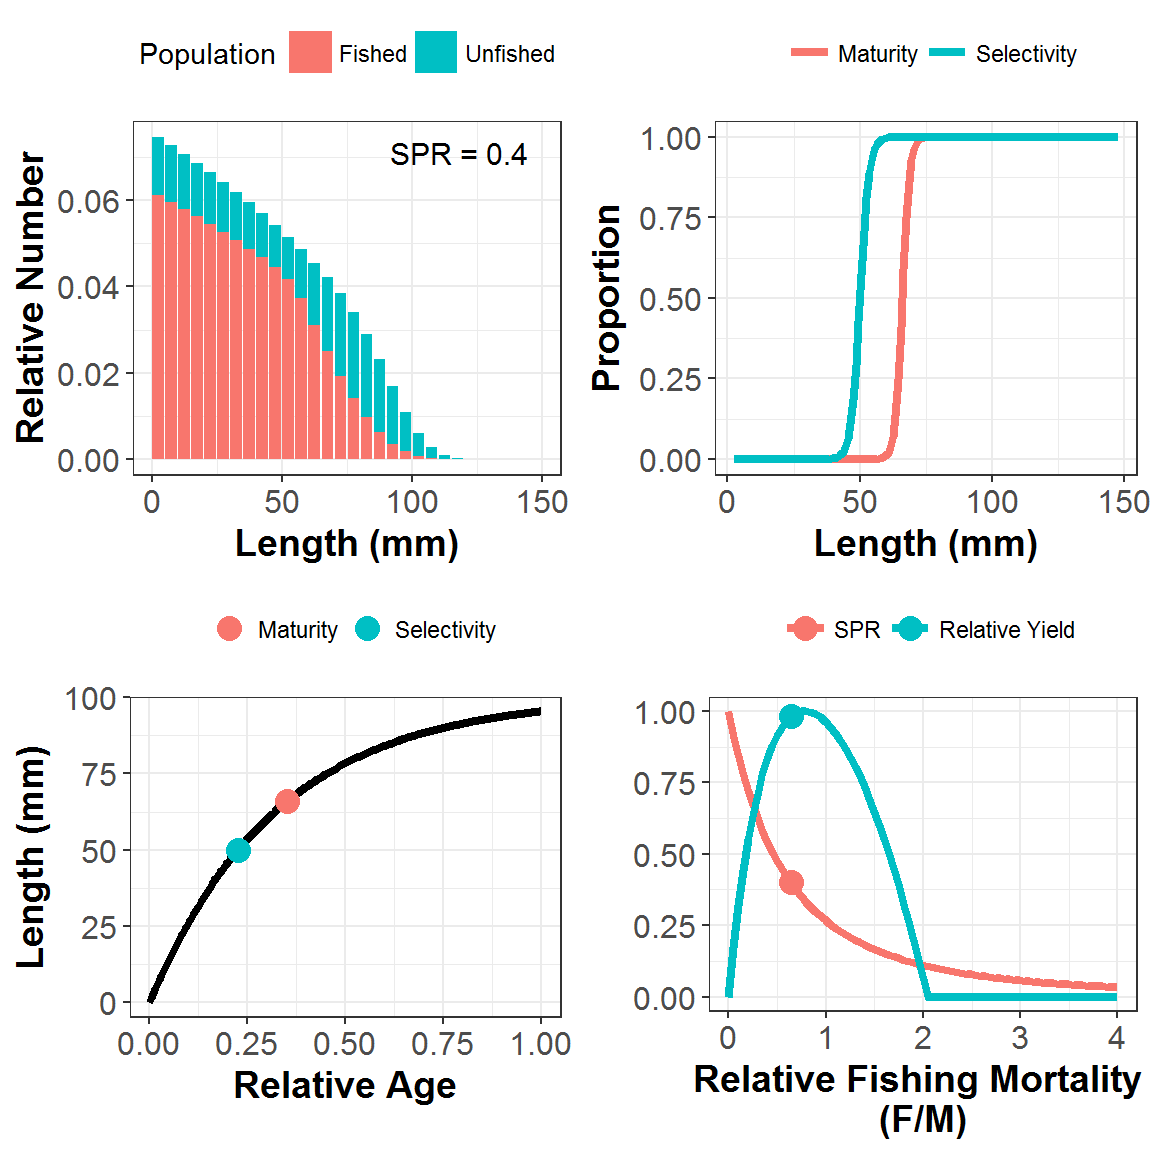
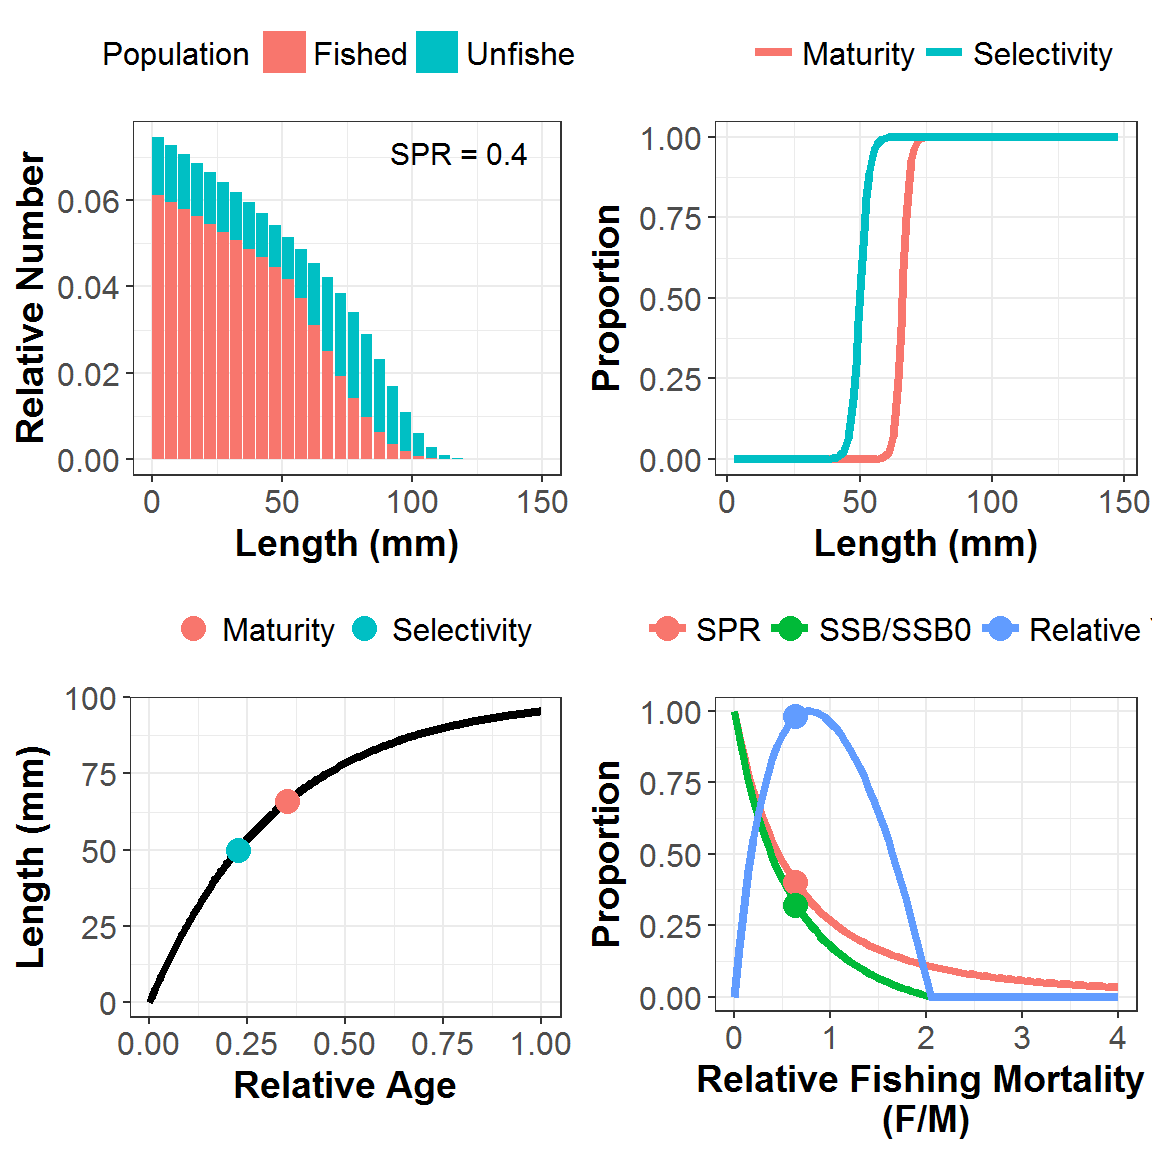
update docs [skip ci]

diff --git a/docs/articles/LBSPR.html b/docs/articles/LBSPR.html
@@ -41,7 +41,7 @@
       <h1>LBSPR: An R package for simulation and estimation using life-history ratios and length composition data</h1>
                         <h4 class="author">Adrian Hordyk</h4>
             
-            <h4 class="date">2016-12-15</h4>
+            <h4 class="date">2017-01-23</h4>
           </div>
 
     
@@ -164,41 +164,45 @@ MyPars@BinMin &lt;-<span class="st"> </span><span class="dv">0</span></code></pr
 <p>What is the ratio of fishing mortality to natural mortality in this scenario?</p>
 <div class="sourceCode"><pre class="sourceCode r"><code class="sourceCode r">MySim@FM </code></pre></div>
 <pre><code>## [1] 0.65</code></pre>
+<blockquote>
 <p>It is important to note that the F/M ratio reported in the LBSPR model refers to the <em>apical F</em> over the adult natural mortality rate. That is, the value for fishing mortality refers to the highest level of <em>F</em> experienced by any single size class.</p>
+</blockquote>
+<blockquote>
 <p>If the selectivity pattern excludes all but the largest individuals from being exploited, it is possible to have a <strong>very</strong> high F/M ratio in a sustainable fishery (high SPR).</p>
+</blockquote>
 <p>A couple of more simulations with alternative values:</p>
 <p>Specify F/M instead of SPR:</p>
 <div class="sourceCode"><pre class="sourceCode r"><code class="sourceCode r">MyPars@SPR &lt;-<span class="st"> </span><span class="kw">numeric</span>() <span class="co"># remove value for SPR </span>
 MyPars@FM &lt;-<span class="st"> </span><span class="dv">1</span> <span class="co"># set value for FM</span>
 MySim &lt;-<span class="st"> </span><span class="kw"><a href="../reference/LBSPRsim.html">LBSPRsim</a></span>(MyPars)
-MySim@SPR <span class="co"># SPR at F/M = 1 </span></code></pre></div>
-<pre><code>## [1] 0.2714598</code></pre>
+<span class="kw">round</span>(MySim@SPR, <span class="dv">2</span>) <span class="co"># SPR at F/M = 1 </span></code></pre></div>
+<pre><code>## [1] 0.27</code></pre>
 <p>Change the life history parameters:</p>
 <div class="sourceCode"><pre class="sourceCode r"><code class="sourceCode r">MyPars@MK &lt;-<span class="st"> </span><span class="fl">2.0</span> 
 MySim &lt;-<span class="st"> </span><span class="kw"><a href="../reference/LBSPRsim.html">LBSPRsim</a></span>(MyPars)
-MySim@SPR <span class="co"># SPR </span></code></pre></div>
-<pre><code>## [1] 0.2435621</code></pre>
+<span class="kw">round</span>(MySim@SPR, <span class="dv">2</span>) <span class="co"># SPR </span></code></pre></div>
+<pre><code>## [1] 0.24</code></pre>
 <div class="sourceCode"><pre class="sourceCode r"><code class="sourceCode r">MyPars@MK &lt;-<span class="st"> </span><span class="fl">0.5</span>
 MySim &lt;-<span class="st"> </span><span class="kw"><a href="../reference/LBSPRsim.html">LBSPRsim</a></span>(MyPars)
-MySim@SPR <span class="co"># SPR </span></code></pre></div>
-<pre><code>## [1] 0.3605154</code></pre>
+<span class="kw">round</span>(MySim@SPR, <span class="dv">2</span>) <span class="co"># SPR </span></code></pre></div>
+<pre><code>## [1] 0.36</code></pre>
 <div class="sourceCode"><pre class="sourceCode r"><code class="sourceCode r">MyPars@Linf &lt;-<span class="st"> </span><span class="dv">120</span>
 MySim &lt;-<span class="st"> </span><span class="kw"><a href="../reference/LBSPRsim.html">LBSPRsim</a></span>(MyPars)
-MySim@SPR <span class="co"># SPR </span></code></pre></div>
-<pre><code>## [1] 0.3497405</code></pre>
+<span class="kw">round</span>(MySim@SPR, <span class="dv">2</span>) <span class="co"># SPR </span></code></pre></div>
+<pre><code>## [1] 0.35</code></pre>
 <p>Change selectivity parameters:</p>
 <div class="sourceCode"><pre class="sourceCode r"><code class="sourceCode r">MyPars@MK &lt;-<span class="st"> </span><span class="fl">1.5</span> 
 MyPars@SL50 &lt;-<span class="st"> </span><span class="dv">10</span>
 MyPars@SL95 &lt;-<span class="st"> </span><span class="dv">15</span> 
 MyPars@FM &lt;-<span class="st"> </span><span class="dv">1</span> 
 MySim &lt;-<span class="st"> </span><span class="kw"><a href="../reference/LBSPRsim.html">LBSPRsim</a></span>(MyPars)
-MySim@SPR <span class="co"># SPR </span></code></pre></div>
-<pre><code>## [1] 0.1345684</code></pre>
+<span class="kw">round</span>(MySim@SPR, <span class="dv">2</span>) <span class="co"># SPR </span></code></pre></div>
+<pre><code>## [1] 0.13</code></pre>
 <div class="sourceCode"><pre class="sourceCode r"><code class="sourceCode r">MyPars@SL50 &lt;-<span class="st"> </span><span class="dv">80</span>
 MyPars@SL95 &lt;-<span class="st"> </span><span class="dv">85</span> 
 MySim &lt;-<span class="st"> </span><span class="kw"><a href="../reference/LBSPRsim.html">LBSPRsim</a></span>(MyPars)
-MySim@SPR <span class="co"># SPR </span></code></pre></div>
-<pre><code>## [1] 0.5678794</code></pre>
+<span class="kw">round</span>(MySim@SPR, <span class="dv">2</span>) <span class="co"># SPR </span></code></pre></div>
+<pre><code>## [1] 0.57</code></pre>
 </div>
 <div id="control-options" class="section level3">
 <h3 class="hasAnchor"><html><body><a href="#control-options" class="anchor"> </a></body></html>Control Options</h3>
@@ -222,7 +226,7 @@ MySim@FM  <span class="co"># lower F/M for the GTG model</span></code></pre></di
 <p>The <code>plotSim</code> function can be used to plot <code>MySim</code>:</p>
 <div class="sourceCode"><pre class="sourceCode r"><code class="sourceCode r"><span class="kw"><a href="../reference/plotSim.html">plotSim</a></span>(MySim) </code></pre></div>
 <p><img src="LBSPR_files/figure-html/unnamed-chunk-17-1.png" width="576"></p>
-<p>By default the function plots: a) the expected size structure of the catch and the expected unfished size structure of the vulnerable population, b) the maturity and selectivity-at-length curves, c) the growth curve, and d) the SPR and relative yield curves as a function of relative fishing mortality.</p>
+<p>By default the function plots: a) the expected (equilibrium) size structure of the catch and the expected unfished size structure of the vulnerable population, b) the maturity and selectivity-at-length curves, c) the von Bertalanffy growth curve with relative age, and d) the SPR and relative yield curves as a function of relative fishing mortality (see note above on the <em>F/M</em> ratio).</p>
 <p>The <code>plotSim</code> function can be controlled in a number of ways. For example, you can plot the expected unfished and fished size structure of the population by changing the <code>lf.type</code> argument:</p>
 <div class="sourceCode"><pre class="sourceCode r"><code class="sourceCode r"><span class="kw"><a href="../reference/plotSim.html">plotSim</a></span>(MySim, <span class="dt">lf.type=</span><span class="st">"pop"</span>)</code></pre></div>
 <p><img src="LBSPR_files/figure-html/unnamed-chunk-18-1.png" width="576"></p>
@@ -359,6 +363,16 @@ MyPars@SL95 &lt;-<span class="st"> </span>Mod@SL95[yr]
 <span class="kw"><a href="../reference/plotTarg.html">plotTarg</a></span>(MyPars, LenDat, <span class="dt">yr=</span>yr)</code></pre></div>
 <p><img src="LBSPR_files/figure-html/unnamed-chunk-38-1.png" width="480"></p>
 </div>
+<div id="shiny-applications" class="section level1">
+<h1 class="hasAnchor"><html><body><a href="#shiny-applications" class="anchor"> </a></body></html>Shiny Applications</h1>
+<p>The <a href="http://shiny.rstudio.com/">Shiny</a> package has made it possible to create user-friendly applications that use the computational power of R together with the interactivity of modern web browsers. A major advantage of this approach is that it allows a simple, user-friendly interface for using models built in R without having to interact directly with the R software.</p>
+<p>Several of the functions in the <code>LBSPR</code> package have been developed into interactive applications, which are included in the latest version of the package.</p>
+<p>The Shiny applications can be launched using the <code>Shiny</code> function. The LBSPR estimation application:</p>
+<div class="sourceCode"><pre class="sourceCode r"><code class="sourceCode r"><span class="kw"><a href="../reference/Shiny.html">Shiny</a></span>(<span class="st">"LBSPR"</span>)</code></pre></div>
+<p>Simulation model calculating SPR, yield-per-recruit, expected size composition, etc:</p>
+<div class="sourceCode"><pre class="sourceCode r"><code class="sourceCode r"><span class="kw"><a href="../reference/Shiny.html">Shiny</a></span>(<span class="st">"Sim"</span>)</code></pre></div>
+<p>The LBSPR Shiny applications, and several others, are also available at <a href="http://barefootecologist.com.au/">The Barefoot Ecologist&rsquo;s Toolbox</a>.</p>
+</div>
 <div id="references" class="section level1">
 <h1 class="hasAnchor"><html><body><a href="#references" class="anchor"> </a></body></html>References</h1>
 <p>Hordyk, A.R., Ono, K., Sainsbury, K.J., Loneragan, N., and Prince, J.D. 2015a. Some explorations of the life history ratios to describe length composition, spawning-per-recruit, and the spawning potential ratio. ICES J. Mar. Sci. 72: 204 - 216.</p>
@@ -390,6 +404,7 @@ MyPars@SL95 &lt;-<span class="st"> </span>Mod@SL95[yr]
       <li><a href="#examine-and-plot-results">Examine and Plot Results</a></li>
       </ul></li>
       <li><a href="#comparing-observed-length-data-to-target-size-structure">Comparing Observed Length Data to Target Size Structure</a></li>
+      <li><a href="#shiny-applications">Shiny Applications</a></li>
       <li><a href="#references">References</a></li>
       </ul></div>
       </div>

diff --git a/docs/reference/index.html b/docs/reference/index.html
@@ -78,13 +78,18 @@
   <div class="col-md-9">
     <div class="page-header">
       <h1>Function reference</h1>
-      <h4>version&nbsp;0.1.9000</h4>
+      <h4>version&nbsp;0.1.9003</h4>
     </div>
 
     <div class="contents">
       <h2 id="section-all-functions" class="hasAnchor"><a href="#section-all-functions" class="anchor"></a>All functions</h2>
       <p class="section-desc"></p>
 
+      
+      <p><a href="calcCurves.html">Calculate Relative Yield, YPR, SPR, SSB, and Recruitment curves for F/M</a></p>
+      <ul>
+        <li><code><a href="calcCurves.html">calcCurves</a></code></li>
+      </ul>
       
       <p><a href="DataDir.html">Report the location of the Data Files</a></p>
       <ul>
@@ -161,6 +166,11 @@
         <li><code><a href="LBSPRsim_.html">LBSPRsim_</a></code></li>
       </ul>
       
+      <p><a href="plotCurves.html">Plot the Relative Yield, YPR, SPR, SSB, and Recruitment curves</a></p>
+      <ul>
+        <li><code><a href="plotCurves.html">plotCurves</a></code></li>
+      </ul>
+      
       <p><a href="plotEsts.html">Plot LBSPR model estimates</a></p>
       <ul>
         <li><code><a href="plotEsts.html">plotEsts</a></code></li>
@@ -171,7 +181,7 @@
         <li><code><a href="plotMat.html">plotMat</a></code></li>
       </ul>
       
-      <p><a href="plotSim.html">Plot simulated size composition</a></p>
+      <p><a href="plotSim.html">General plotting function for simulated data</a></p>
       <ul>
         <li><code><a href="plotSim.html">plotSim</a></code></li>
       </ul>
@@ -189,6 +199,11 @@
       <p><a href="plotTarg.html">Plot sampled length structure against target simulated size composition</a></p>
       <ul>
         <li><code><a href="plotTarg.html">plotTarg</a></code></li>
+      </ul>
+      
+      <p><a href="Shiny.html">Run a Shiny Application</a></p>
+      <ul>
+        <li><code><a href="Shiny.html">Shiny</a></code></li>
       </ul>
     
     </div>

diff --git a/docs/news/index.html b/docs/news/index.html
@@ -82,6 +82,26 @@
     </div>
 
     <div class="contents">
+    <div id="lbspr-0-1-9003" class="section level1">
+<h1 class="hasAnchor">
+<a href="#lbspr-0-1-9003" class="anchor"> </a>LBSPR 0.1.9003</h1>
+<p>Current development version</p>
+<div id="minor-changes" class="section level2">
+<h2 class="hasAnchor">
+<a href="#minor-changes" class="anchor"> </a>Minor Changes</h2>
+<ul><li>Shiny applications have now been added to the package. Launch the applications using the <code>Shiny</code> function: e.g., <code><a href="../reference/Shiny.html">Shiny("LBSPR")</a></code> or <code><a href="../reference/Shiny.html">Shiny("Sim")</a></code>
+</li>
+<li>the relative spawning stock biomass (SSB) is now calculated and reported in the simulation model</li>
+<li>modified the plotSim function so that it now produces several plots including SSB/SSB0 to yield and spr plot</li>
+<li>split functions in functions.r into separate r files</li>
+<li>updated the vignette</li>
+</ul></div>
+<div id="bug-fixes" class="section level2">
+<h2 class="hasAnchor">
+<a href="#bug-fixes" class="anchor"> </a>Bug Fixes</h2>
+<ul><li>added packages required by the Shiny applications as dependencies</li>
+</ul></div>
+</div>
     <div id="lbspr-0-1-0" class="section level1">
 <h1 class="hasAnchor">
 <a href="#lbspr-0-1-0" class="anchor"> </a>LBSPR 0.1.0</h1>
@@ -95,6 +115,7 @@
     <div id="tocnav">
       <h2>Contents</h2>
       <ul class="nav nav-pills nav-stacked">
+        <li><a href="#lbspr-0-1-9003">0.1.9003</a></li>
         <li><a href="#lbspr-0-1-0">0.1.0</a></li>
       </ul>
     </div>

diff --git a/docs/reference/plotMat.html b/docs/reference/plotMat.html
@@ -84,7 +84,7 @@
     <p>A function that plots the maturity-at-length and selectivity-at-length curves</p>
     
 
-    <pre><span class='fu'>plotMat</span>(<span class='kw'>LB_obj</span> <span class='kw'>=</span> <span class='kw'>NULL</span>, <span class='kw'>size.axtex</span> <span class='kw'>=</span> <span class='fl'>12</span>, <span class='kw'>size.title</span> <span class='kw'>=</span> <span class='fl'>14</span>,
+    <pre><span class='fu'>plotMat</span>(<span class='kw'>LB_obj</span> <span class='kw'>=</span> <span class='kw'>NULL</span>, <span class='kw'>size.axtex</span> <span class='kw'>=</span> <span class='fl'>12</span>, <span class='kw'>size.title</span> <span class='kw'>=</span> <span class='fl'>14</span>, <span class='kw'>size.leg</span> <span class='kw'>=</span> <span class='fl'>12</span>,
   <span class='kw'>useSmooth</span> <span class='kw'>=</span> <span class='fl'>TRUE</span>, <span class='kw'>Title</span> <span class='kw'>=</span> <span class='kw'>NULL</span>)</pre>
     
     <h2 class="hasAnchor" id="arguments"><a class="anchor" href="#arguments"></a> Arguments</h2>
@@ -95,6 +95,8 @@
       <dd>size of the axis text</dd>
       <dt>size.title</dt>
       <dd>size of axis title</dd>
+      <dt>size.leg</dt>
+      <dd>size of legend text</dd>
       <dt>useSmooth</dt>
       <dd>use the smoothed estimates?</dd>
       <dt>Title</dt>

diff --git a/docs/articles/index.html b/docs/articles/index.html
@@ -75,7 +75,7 @@
       </header>
 
       <div class="page-header">
-  <h1>Vignette reference <small>version&nbsp;0.1.9000</small></h1>
+  <h1>Vignette reference <small>version&nbsp;0.1.9003</small></h1>
 </div>
 
 <div class="row">

diff --git a/docs/reference/FilterSmooth.html b/docs/reference/FilterSmooth.html
@@ -112,10 +112,6 @@
       <li><a href="#value">Value</a></li>
           </ul>
 
-    <h2>Author</h2>
-    
-A. Hordyk
-
   </div>
 </div>
 
